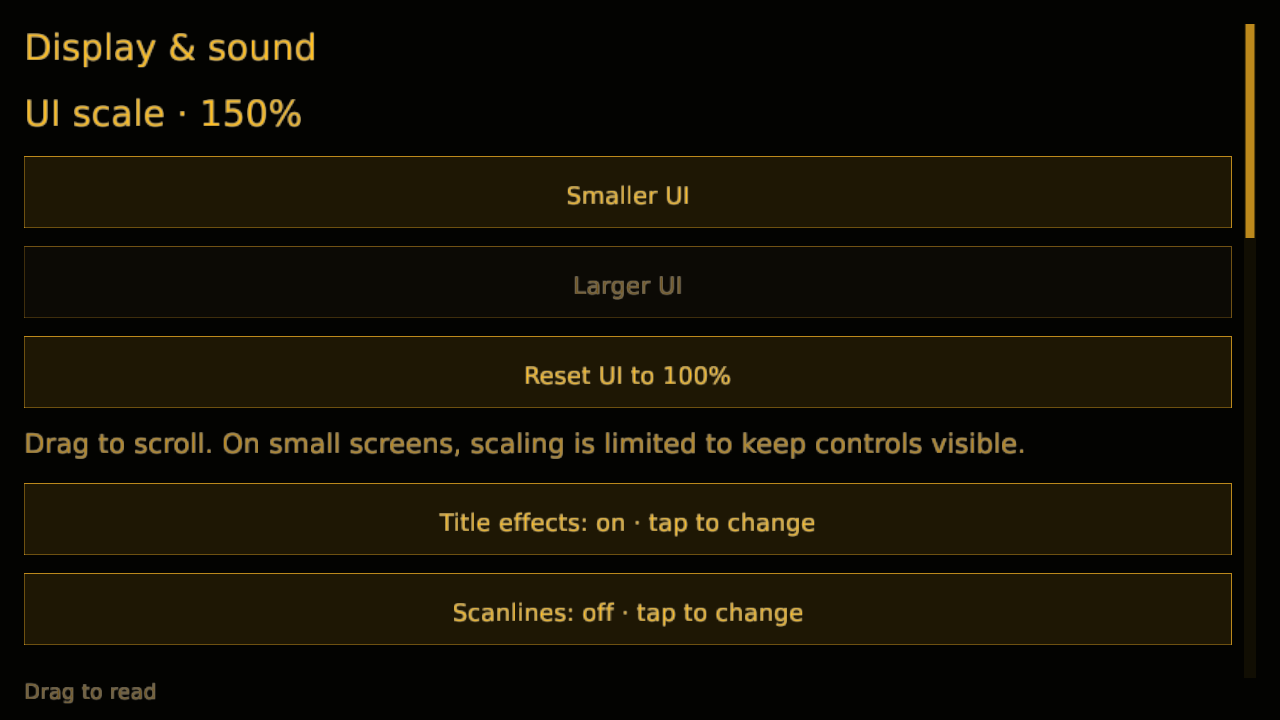
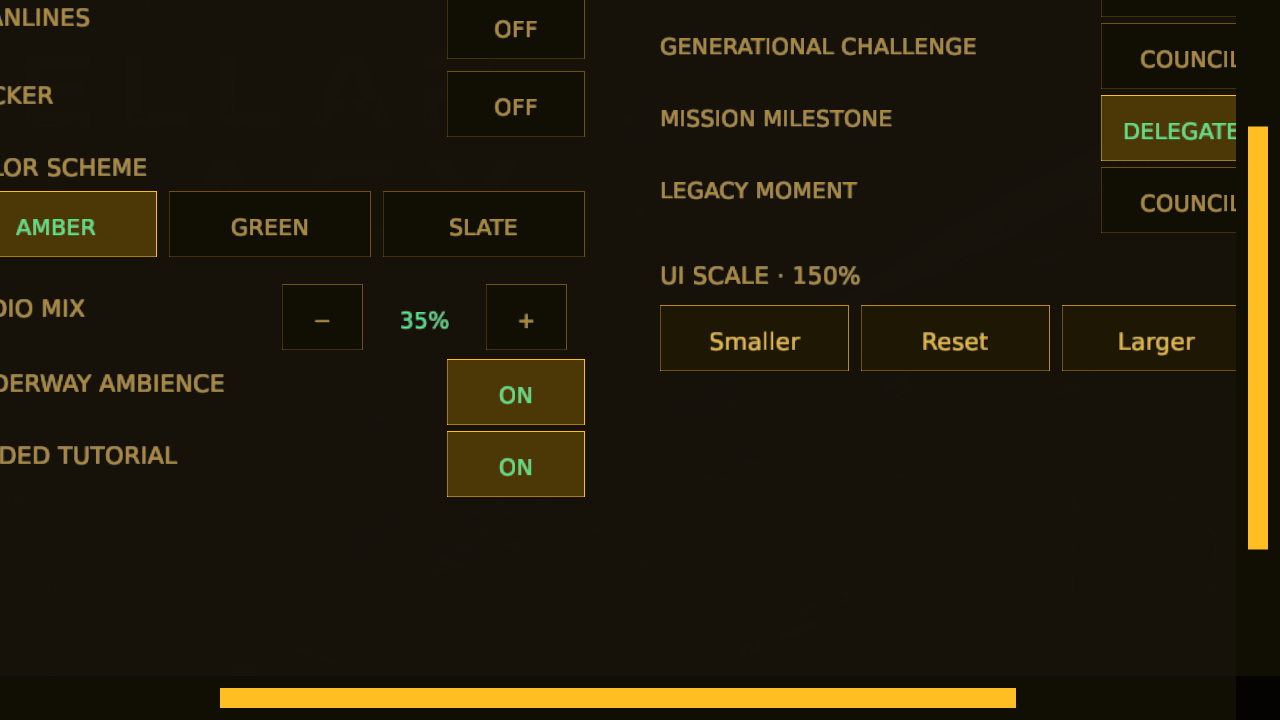
The Custodian keeps the bridge's shape at every size (desktop UI scaling fix)
Changing UI scale incorrectly selected the mobile reading layout on desktop. Keep layout selection tied to window size and use the shared fixed-layout canvas to scale desktop rendering and pointer input together. Smaller views are centered; enlarged views have external touchable scrollbars so every control remains reachable.

Verified captures at 75, 95, 100 and 150 percent. All 526 active game tests and the code-standards check pass, with one existing ignored test. The no-argument publisher deploys preview and passes Windows and browser smoke checks; Project Roost tracking is unavailable.

diff --git a/src/game/render.rs b/src/game/render.rs
@@ -16,11 +16,35 @@ impl Game {
         } else {
             (ui::LOGICAL_WIDTH, ui::LOGICAL_HEIGHT)
         };
-        let virtual_ui = begin_virtual_ui_frame(width, height);
+        let screen_pointer = Pointer::read(|p| p);
+        let canvas = if ui::mobile::active() {
+            None
+        } else {
+            let mut pan = self
+                .presentation
+                .desktop_pan
+                .get()
+                .unwrap_or(vec2(0.5, 0.5));
+            let content = vec2(width, height);
+            let canvas = macroquad_toolkit::ui::UiCanvas::new(content, self.display.ui_scale, pan);
+            canvas.navigate(screen_pointer, &mut pan);
+            self.presentation.desktop_pan.set(Some(pan));
+            Some(macroquad_toolkit::ui::UiCanvas::new(
+                content,
+                self.display.ui_scale,
+                pan,
+            ))
+        };
         // One pointer for the whole frame, in logical coordinates — a mouse or a
         // finger, read the same way. Built here rather than per screen so every
         // control agrees about where it is and whether it just let go.
-        let pointer = Pointer::read(|p| virtual_ui.screen_to_ui(p));
+        let pointer = if let Some(canvas) = canvas {
+            canvas.begin();
+            canvas.pointer(screen_pointer)
+        } else {
+            let virtual_ui = begin_virtual_ui_frame(width, height);
+            Pointer::read(|p| virtual_ui.screen_to_ui(p))
+        };
         self.presentation
             .overlay_active
             .set(self.settings_open || self.help_open || self.welcome_open);
@@ -145,6 +169,16 @@ impl Game {
         // this has to happen once, after everything has drawn.
         end_frame_neighbours();
         end_virtual_ui_frame();
+        if let Some(canvas) = canvas {
+            canvas.draw_navigation(
+                self.presentation
+                    .desktop_pan
+                    .get()
+                    .unwrap_or(vec2(0.5, 0.5)),
+                ui::term::surface_inset(),
+                ui::term::primary(),
+            );
+        }
 
         // While a panel or the welcome overlay is open, swallow the underlying
         // screen's intents.

diff --git a/src/game.rs b/src/game.rs
@@ -475,6 +475,7 @@ impl Game {
             DisplayAction::SetPhosphor(p) => self.display.phosphor = p,
             DisplayAction::SetUiScale(scale) => {
                 self.display.ui_scale = macroquad_toolkit::ui::sanitize_ui_scale(scale);
+                self.presentation.desktop_pan.set(None);
                 self.presentation
                     .overlay_scroll
                     .set(macroquad_toolkit::ui::ScrollArea::new());

diff --git a/src/game/capture_scenes.rs b/src/game/capture_scenes.rs
@@ -45,6 +45,10 @@ impl Game {
         self.abort_confirm.set(false);
         self.display = crate::settings::DisplaySettings::default();
         let scene = match scene {
+            "settings_95" => {
+                self.display.ui_scale = 0.95;
+                "settings"
+            }
             "settings_large" => {
                 self.display.ui_scale = 1.5;
                 "settings"

diff --git a/src/ui/mobile.rs b/src/ui/mobile.rs
@@ -13,9 +13,7 @@ use form::Form;
 pub use menu::draw_menu;
 
 pub fn active() -> bool {
-    screen_width() < 1100.0
-        || screen_height() < 640.0
-        || (macroquad_toolkit::ui::ui_scale() - 1.0).abs() > 0.001
+    screen_width() < 1100.0 || screen_height() < 640.0
 }
 pub fn size() -> (f32, f32) {
     let viewport = macroquad_toolkit::ui::VirtualUi::scaled(320.0, 480.0);

diff --git a/src/ui/presentation.rs b/src/ui/presentation.rs
@@ -4,6 +4,7 @@ use std::cell::Cell;
 
 #[derive(Default)]
 pub struct Presentation {
+    pub desktop_pan: Cell<Option<macroquad::prelude::Vec2>>,
     pub capture_mobile_offset: Cell<Option<(bool, f32)>>,
     pub overlay_active: Cell<bool>,
     pub overlay_key: std::cell::RefCell<String>,

diff --git a/src/ui/settings.rs b/src/ui/settings.rs
@@ -213,7 +213,7 @@ pub fn draw(
         }
     }
     draw_ui_text_ex(
-        "Adjusted scales use the scrolling layout.",
+        "Above 100%, drag the edge scrollbars to move.",
         content.x,
         content.bottom() - 54.0,
         TextStyle::new(13.0, term::faint()).params(),

diff --git a/README.md b/README.md
@@ -11,9 +11,10 @@ promises made to people whose descendants will live with your decisions.
 
 In **Display & sound**, use **Smaller** or **Larger** to adjust UI scale from
 75% to 150% in 5% steps. Changes apply immediately and are saved automatically;
-**Reset** restores 100%. Adjusted scales use the scrolling interface so content
-remains reachable. Small windows limit the effective enlargement to fit the
-minimum layout. The preference does not affect the simulation or campaign save.
+**Reset** restores 100%. Desktop scaling preserves the desktop layout; above
+100%, drag or tap the edge scrollbars to reach enlarged content. Mobile layout
+is selected only by window size. Small mobile windows limit enlargement to fit
+the minimum layout. The preference does not affect the simulation or campaign save.
 
 Choose a charter, prepare your vessel, and guide its people through the outbound
 journey, mission operations, and return home. Balance supplies, ship maintenance,
